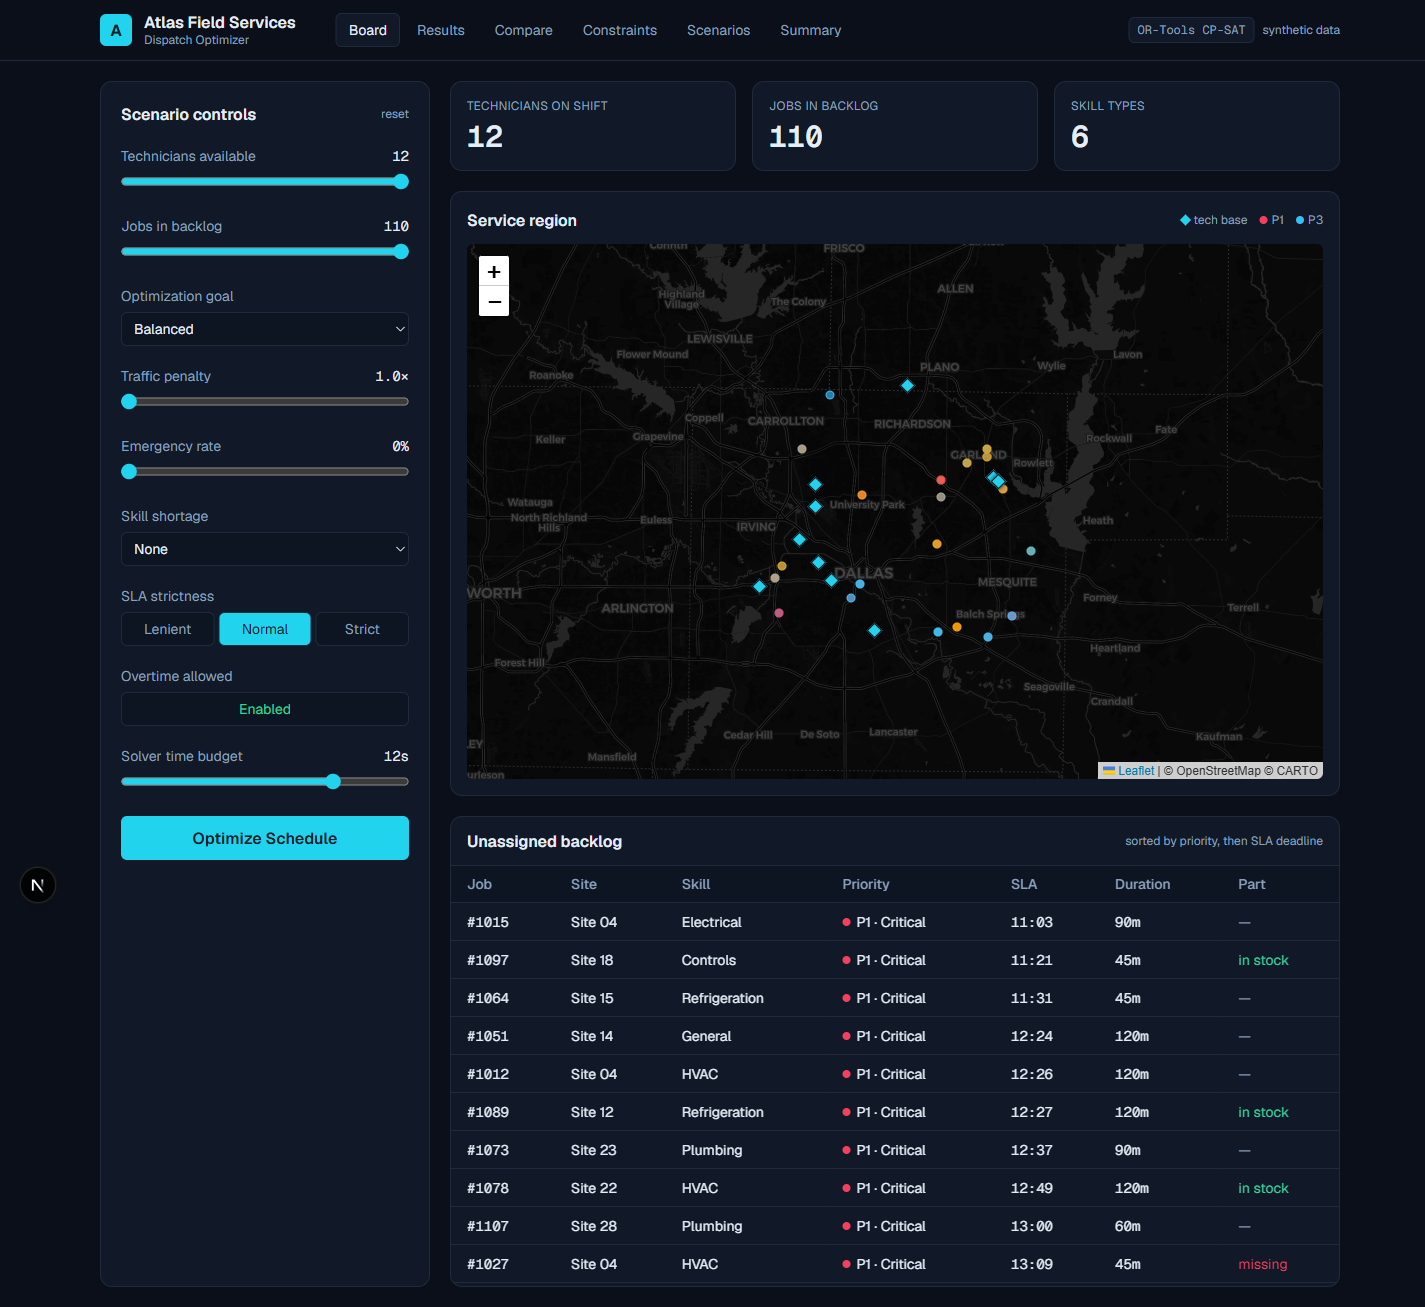
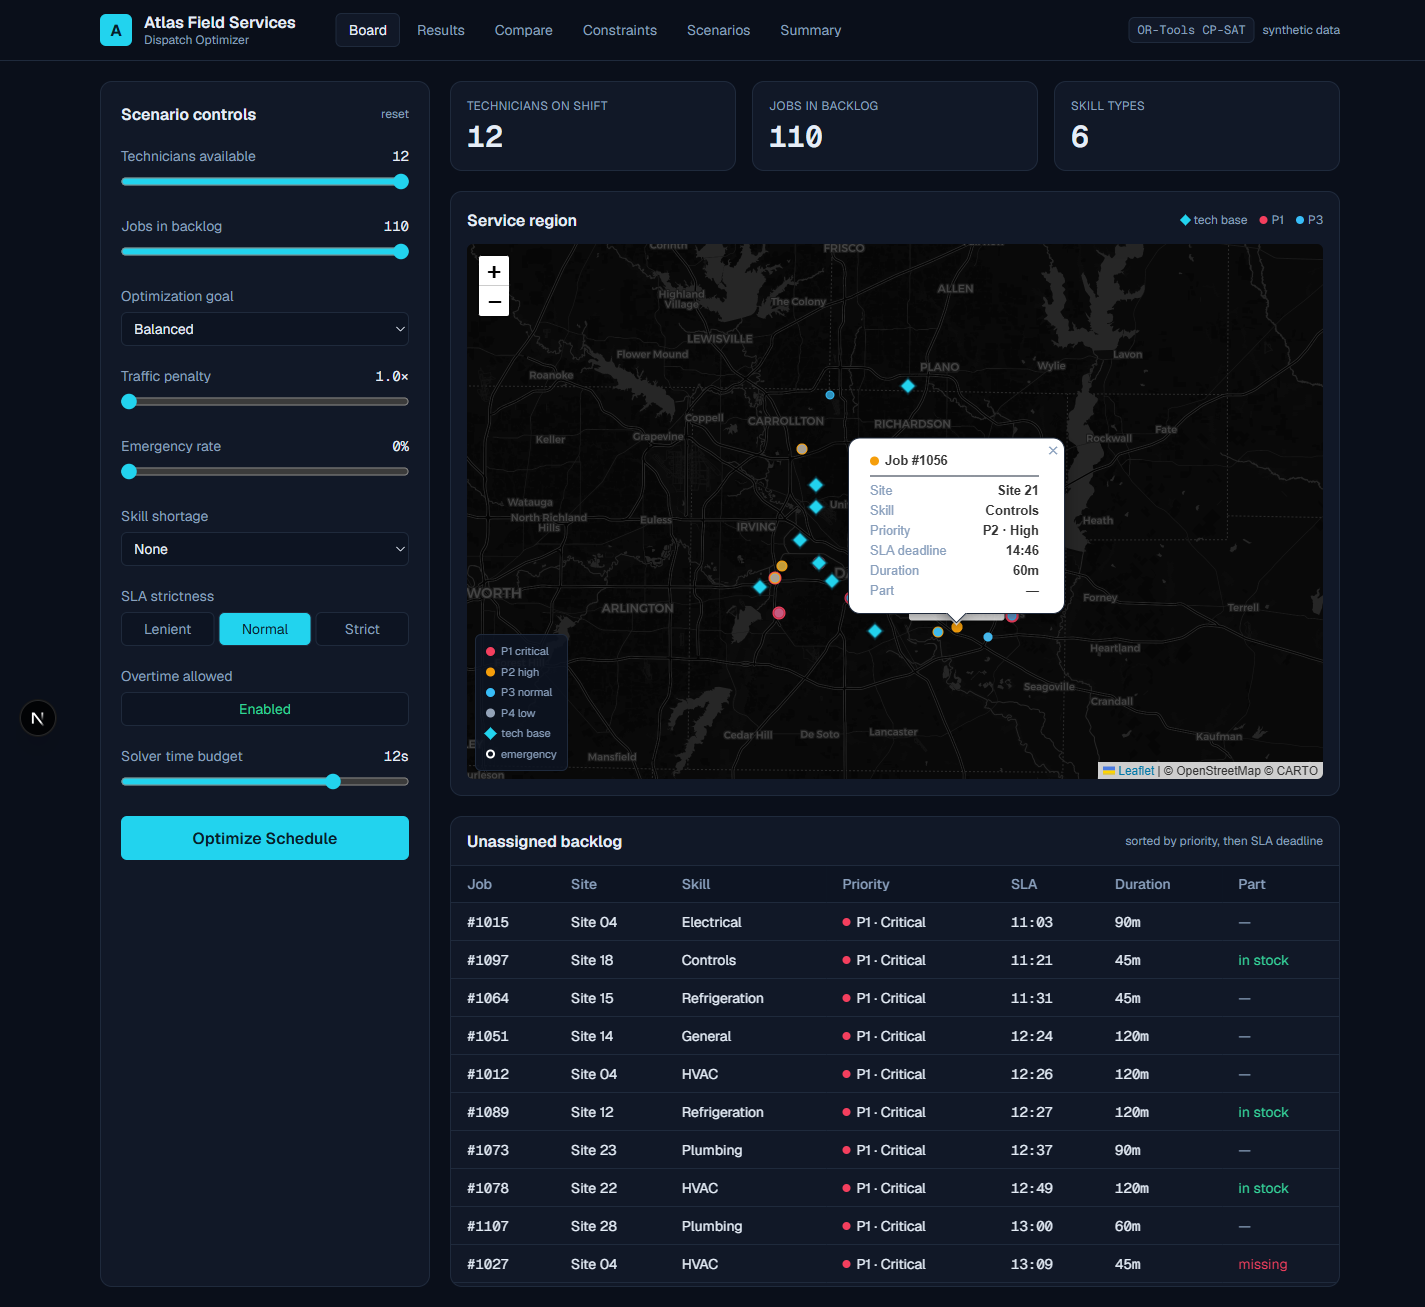
feat(frontend): rich map popups, tooltips, emergency styling, legend
Every marker now has a hover tooltip and a click popup: jobs show site, skill,
priority, SLA, duration, parts; tech bases show skills, shift, route size; route
stops show order, window, and SLA/overtime flags. Emergencies get a white ring,
P1 markers are larger, markers grow on hover. Dark-themed Leaflet popups/tooltips
and an on-map legend.

Changed region(s): [[0.5867, 0.3366, 0.7719, 0.4897], [0.3396, 0.4897, 0.4014, 0.5815], [0.5249, 0.4285, 0.5558, 0.4591]]

diff --git a/frontend/components/LeafletMap.tsx b/frontend/components/LeafletMap.tsx
@@ -3,15 +3,75 @@
 import { useEffect, useRef, useState } from "react";
 import "leaflet/dist/leaflet.css";
 import { Route } from "@/lib/api";
-import { priorityColor } from "@/lib/format";
+import { PRIORITY_LABEL, hhmm, priorityColor } from "@/lib/format";
 
+interface MapTech {
+  home_x: number; home_y: number; name: string;
+  skills?: string[]; shift_start?: number; shift_end?: number;
+}
+interface MapJob {
+  id?: number; x: number; y: number; priority: number;
+  site_name?: string; required_skill?: string; sla_deadline?: number;
+  duration?: number; requires_part?: boolean; part_available?: boolean; is_emergency?: boolean;
+}
 interface Props {
-  technicians: { home_x: number; home_y: number; name: string }[];
-  jobs?: { x: number; y: number; priority: number }[];
+  technicians: MapTech[];
+  jobs?: MapJob[];
   routes?: Route[];
 }
 
 const ROUTE_HUES = [180, 150, 95, 45, 20, 320, 265, 210, 120, 0, 60, 290];
+const esc = (s: unknown) => String(s ?? "").replace(/[&<>"]/g, (c) =>
+  ({ "&": "&amp;", "<": "&lt;", ">": "&gt;", '"': "&quot;" }[c] as string));
+
+function row(label: string, value: string) {
+  return `<div class="row"><span>${label}</span><b>${value}</b></div>`;
+}
+
+function jobPopup(j: MapJob): string {
+  const part = j.requires_part ? (j.part_available ? "in stock" : "missing") : "—";
+  return `<div class="map-pop">
+    <div class="map-pop-h">
+      <span class="dot" style="background:${priorityColor(j.priority)}"></span>
+      Job #${esc(j.id)} ${j.is_emergency ? '<span class="badge-em">EMERGENCY</span>' : ""}
+    </div>
+    ${row("Site", esc(j.site_name))}
+    ${row("Skill", esc(j.required_skill))}
+    ${row("Priority", esc(PRIORITY_LABEL[j.priority] ?? j.priority))}
+    ${row("SLA deadline", hhmm(j.sla_deadline))}
+    ${row("Duration", `${esc(j.duration)}m`)}
+    ${row("Part", part)}
+  </div>`;
+}
+
+function techPopup(t: MapTech, stops?: number): string {
+  const shift = t.shift_start != null && t.shift_end != null
+    ? `${hhmm(t.shift_start)}–${hhmm(t.shift_end)}` : "—";
+  return `<div class="map-pop">
+    <div class="map-pop-h">
+      <span class="dot" style="background:var(--accent)"></span> ${esc(t.name)}
+    </div>
+    ${t.skills?.length ? row("Skills", esc(t.skills.join(", "))) : ""}
+    ${row("Shift", shift)}
+    ${stops != null ? row("Jobs on route", String(stops)) : ""}
+  </div>`;
+}
+
+function stopPopup(s: Route["stops"][number], techName: string, color: string): string {
+  const flags = [
+    s.is_sla_breach ? '<span class="badge-em">SLA BREACH</span>' : "",
+    s.is_overtime ? '<span class="badge-em" style="background:var(--warn)">OT</span>' : "",
+  ].join(" ");
+  return `<div class="map-pop">
+    <div class="map-pop-h">
+      <span class="dot" style="background:${color}"></span> Stop ${s.seq + 1} · Job #${esc(s.job_id)} ${flags}
+    </div>
+    ${row("Technician", esc(techName))}
+    ${row("Skill", esc(s.required_skill))}
+    ${row("Site", esc(s.site_name))}
+    ${row("Window", `${hhmm(s.start)}–${hhmm(s.end)}`)}
+  </div>`;
+}
 
 // Coordinates are [lon=x, lat=y]; Leaflet wants [lat, lon].
 export default function LeafletMap({ technicians, jobs, routes }: Props) {
@@ -63,11 +123,24 @@ export default function LeafletMap({ technicians, jobs, routes }: Props) {
     layer.clearLayers();
     const bounds: [number, number][] = [];
 
+    // hover emphasis helpers
+    // eslint-disable-next-line @typescript-eslint/no-explicit-any
+    const hoverable = (m: any, baseR: number) => {
+      m.on("mouseover", () => m.setRadius(baseR + 3));
+      m.on("mouseout", () => m.setRadius(baseR));
+      return m;
+    };
+
     jobs?.forEach((j) => {
-      L.circleMarker([j.y, j.x], {
-        radius: 4, color: priorityColor(j.priority), weight: 1,
-        fillColor: priorityColor(j.priority), fillOpacity: 0.65,
+      const r = j.priority === 1 ? 6 : j.priority === 2 ? 5 : 4;
+      const color = priorityColor(j.priority);
+      const m = L.circleMarker([j.y, j.x], {
+        radius: r, color: j.is_emergency ? "#ffffff" : color,
+        weight: j.is_emergency ? 2 : 1, fillColor: color, fillOpacity: 0.75,
       }).addTo(layer);
+      m.bindTooltip(`#${j.id ?? ""} · ${j.required_skill ?? ""}`, { direction: "top" });
+      m.bindPopup(jobPopup(j));
+      hoverable(m, r);
       bounds.push([j.y, j.x]);
     });
 
@@ -80,29 +153,64 @@ export default function LeafletMap({ technicians, jobs, routes }: Props) {
       ];
       L.polyline(pts, { color, weight: 2, opacity: 0.85 }).addTo(layer);
       rt.stops.forEach((s) => {
-        L.circleMarker([s.y, s.x], {
+        const m = L.circleMarker([s.y, s.x], {
           radius: 4, color, weight: 1, fillColor: color, fillOpacity: 0.95,
-        })
-          .addTo(layer)
-          .bindTooltip(`#${s.job_id} · ${s.required_skill} · stop ${s.seq + 1}`);
+        }).addTo(layer);
+        m.bindTooltip(`#${s.job_id} · stop ${s.seq + 1}`, { direction: "top" });
+        m.bindPopup(stopPopup(s, rt.tech_name, color));
+        hoverable(m, 4);
         bounds.push([s.y, s.x]);
       });
       bounds.push([rt.home_y, rt.home_x]);
     });
 
+    const stopsByTech = new Map<string, number>();
+    routes?.forEach((rt) => stopsByTech.set(rt.tech_name, rt.stops.length));
+
     technicians.forEach((t) => {
       const icon = L.divIcon({
         className: "",
-        html: '<div style="width:11px;height:11px;background:var(--accent);transform:rotate(45deg);border:1px solid #06121f;box-shadow:0 0 4px rgba(0,0,0,.5)"></div>',
-        iconSize: [11, 11],
+        html: '<div style="width:12px;height:12px;background:var(--accent);transform:rotate(45deg);border:1px solid #06121f;box-shadow:0 0 5px rgba(0,0,0,.6)"></div>',
+        iconSize: [12, 12],
         iconAnchor: [6, 6],
       });
-      L.marker([t.home_y, t.home_x], { icon }).addTo(layer).bindTooltip(t.name);
+      const m = L.marker([t.home_y, t.home_x], { icon }).addTo(layer);
+      m.bindTooltip(t.name, { direction: "top" });
+      m.bindPopup(techPopup(t, stopsByTech.get(t.name)));
       bounds.push([t.home_y, t.home_x]);
     });
 
     if (bounds.length) map.fitBounds(bounds, { padding: [24, 24], maxZoom: 13 });
   }, [ready, technicians, jobs, routes]);
 
-  return <div ref={elRef} className="w-full h-full rounded-md overflow-hidden" style={{ background: "var(--panel-2)" }} />;
+  return (
+    <div className="relative w-full h-full">
+      <div ref={elRef} className="absolute inset-0 rounded-md overflow-hidden"
+        style={{ background: "var(--panel-2)" }} />
+      <div className="absolute z-[500] left-2 bottom-2 rounded-md px-2.5 py-2 text-[11px] space-y-1"
+        style={{ background: "rgba(13,20,34,0.85)", border: "1px solid var(--border)", color: "var(--muted)" }}>
+        <LegendRow color="#f43f5e" label="P1 critical" />
+        <LegendRow color="#f59e0b" label="P2 high" />
+        <LegendRow color="#38bdf8" label="P3 normal" />
+        <LegendRow color="#94a3b8" label="P4 low" />
+        <div className="flex items-center gap-1.5">
+          <span style={{ width: 9, height: 9, background: "var(--accent)", transform: "rotate(45deg)", display: "inline-block" }} />
+          tech base
+        </div>
+        <div className="flex items-center gap-1.5">
+          <span style={{ width: 9, height: 9, borderRadius: 999, border: "2px solid #fff", display: "inline-block" }} />
+          emergency
+        </div>
+      </div>
+    </div>
+  );
+}
+
+function LegendRow({ color, label }: { color: string; label: string }) {
+  return (
+    <div className="flex items-center gap-1.5">
+      <span style={{ width: 9, height: 9, borderRadius: 999, background: color, display: "inline-block" }} />
+      {label}
+    </div>
+  );
 }

diff --git a/frontend/app/globals.css b/frontend/app/globals.css
@@ -49,3 +49,40 @@ body {
 
 input[type="range"] { accent-color: var(--accent); }
 .mono { font-family: var(--font-mono), ui-monospace, monospace; }
+
+/* --- Leaflet: dark theme for popups & tooltips --- */
+.leaflet-popup-content-wrapper,
+.leaflet-tooltip {
+  background: var(--panel);
+  color: var(--foreground);
+  border: 1px solid var(--border);
+  border-radius: 0.6rem;
+  box-shadow: 0 8px 24px rgba(0, 0, 0, 0.45);
+}
+.leaflet-popup-content { margin: 0.7rem 0.85rem; font-size: 12px; line-height: 1.35; }
+.leaflet-popup-tip { background: var(--panel); border: 1px solid var(--border); }
+.leaflet-popup-close-button { color: var(--muted) !important; }
+.leaflet-tooltip { padding: 3px 7px; font-size: 11px; }
+.leaflet-tooltip-top:before { border-top-color: var(--border); }
+.leaflet-tooltip-bottom:before { border-bottom-color: var(--border); }
+.leaflet-container { background: var(--panel-2); font-family: inherit; }
+.leaflet-bar a {
+  background: var(--panel); color: var(--foreground); border-color: var(--border);
+}
+.leaflet-bar a:hover { background: var(--panel-2); }
+
+/* popup content layout */
+.map-pop { min-width: 168px; }
+.map-pop-h {
+  display: flex; align-items: center; gap: 6px;
+  font-weight: 600; margin-bottom: 6px; padding-bottom: 6px;
+  border-bottom: 1px solid var(--border);
+}
+.map-pop-h .dot { width: 9px; height: 9px; border-radius: 999px; display: inline-block; }
+.map-pop .row { display: flex; justify-content: space-between; gap: 14px; margin-top: 3px; }
+.map-pop .row span { color: var(--muted); }
+.map-pop .row b { font-weight: 600; }
+.map-pop .badge-em {
+  margin-left: auto; font-size: 9px; font-weight: 700; letter-spacing: .03em;
+  background: var(--bad); color: #1a0008; padding: 1px 5px; border-radius: 4px;
+}